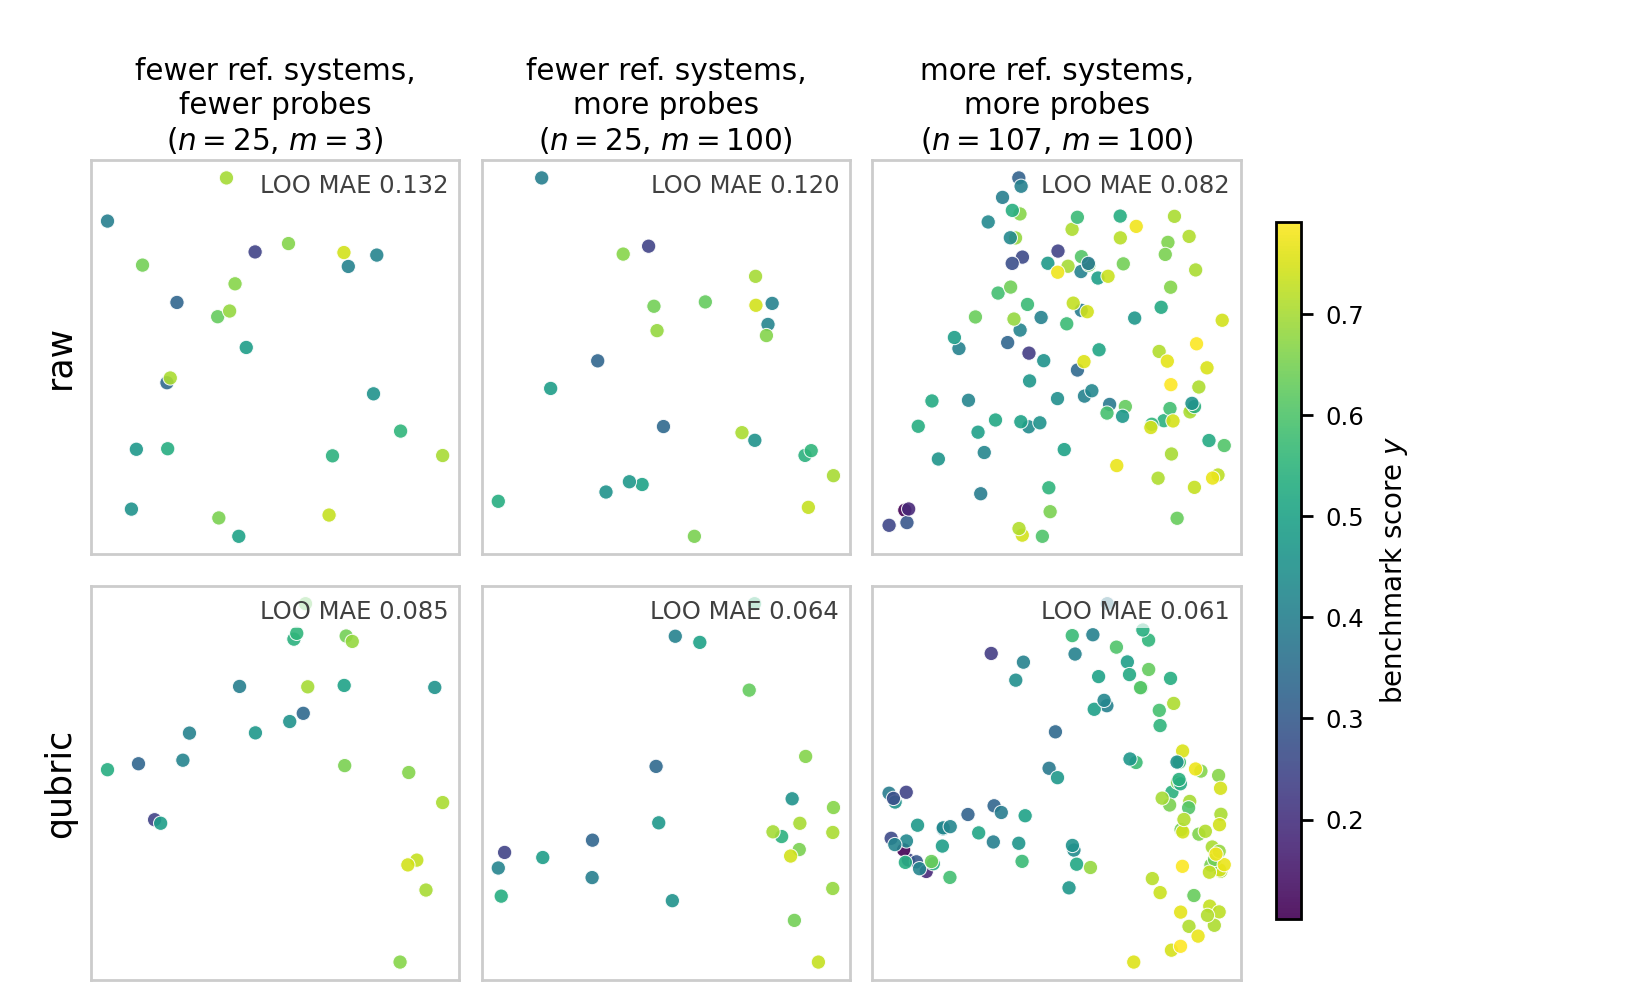
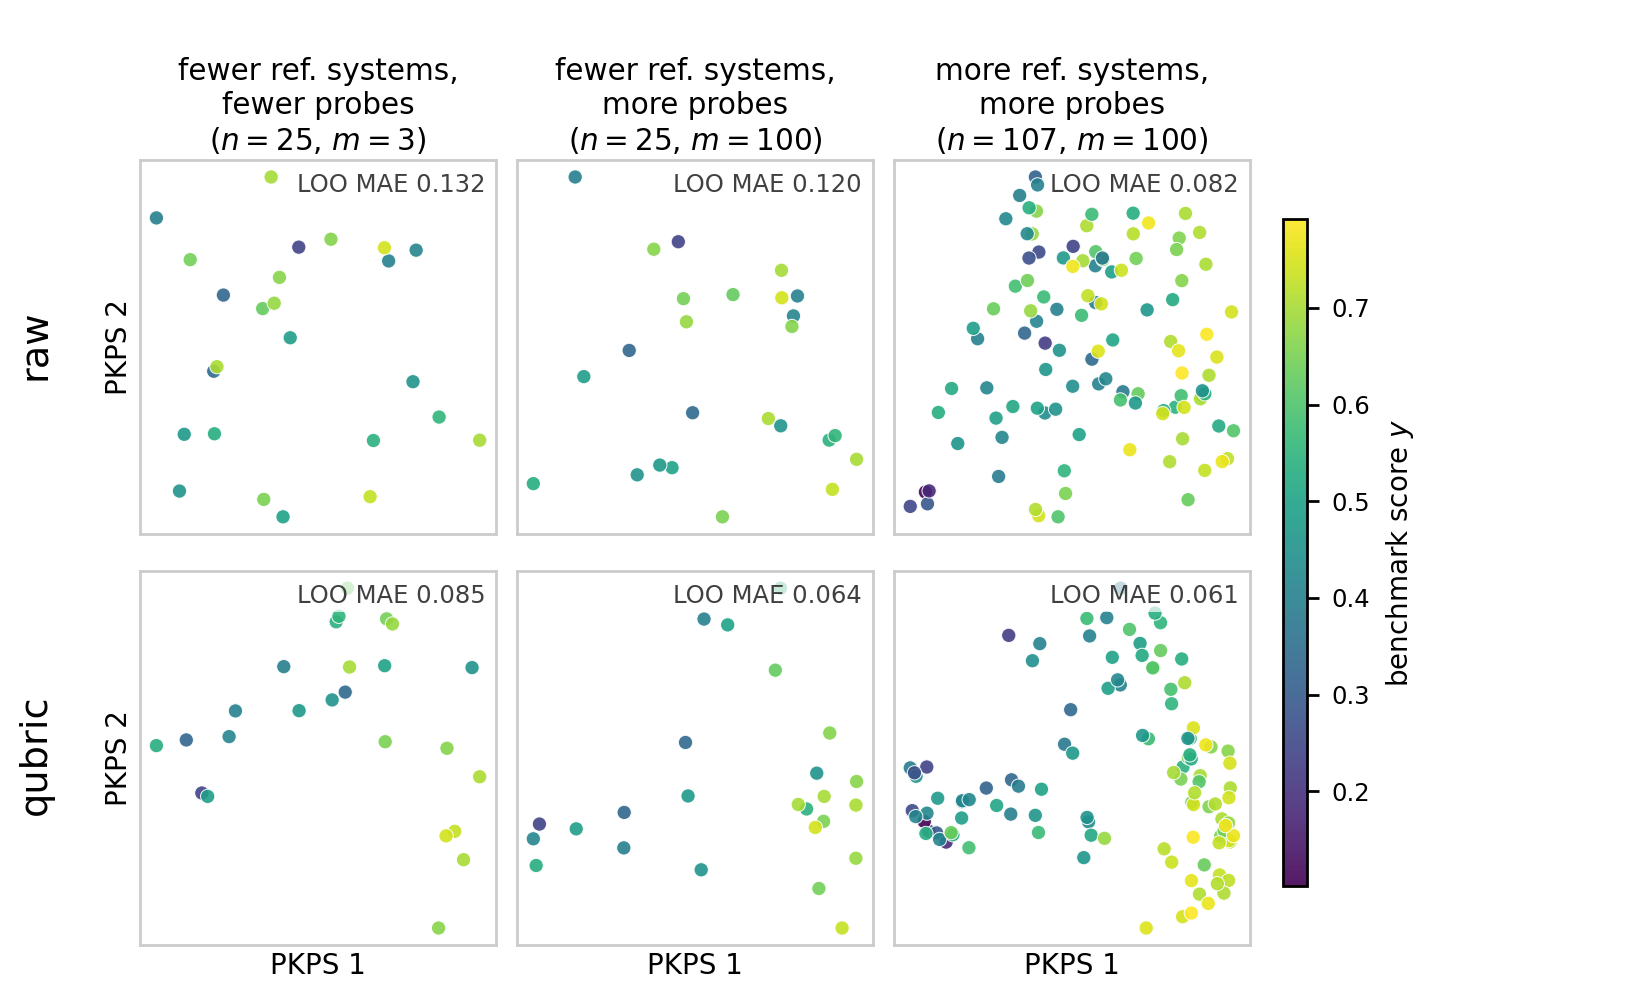
fig2: PKPS 1 / PKPS 2 axis labels; row names moved to margin
Claude-Session: https://claude.ai/code/session_01RGusFFXzoPTkSKgzzDLjNv

diff --git a/scripts/fig2_nm.py b/scripts/fig2_nm.py
@@ -88,8 +88,8 @@ def main():
     import matplotlib.pyplot as plt
 
     fig, axes = plt.subplots(2, 3, figsize=(6.6, 4.0))
-    fig.subplots_adjust(left=.055, right=.90, top=.84, bottom=.02,
-                        wspace=.06, hspace=.08)
+    fig.subplots_adjust(left=.085, right=.90, top=.84, bottom=.055,
+                        wspace=.06, hspace=.10)
     # row references: qubric's full configuration anchors the figure; the
     # raw row's reference is rotated onto it so the rows are comparable
     ref_qub = cmds2(pkps_D(qub, np.arange(M), np.arange(Q)))
@@ -118,7 +118,12 @@ def main():
             ax.set_yticks([])
             for sp in ax.spines.values():
                 sp.set_color('.8')
-        axes[r, 0].set_ylabel(rname, fontsize=10)
+            if r == 1:
+                ax.set_xlabel('PKPS 1', fontsize=8, labelpad=2)
+        axes[r, 0].set_ylabel('PKPS 2', fontsize=8, labelpad=2)
+    for r, rname in enumerate(('raw', 'qubric')):
+        fig.text(.022, .655 - .41 * r, rname, rotation=90, fontsize=11,
+                 va='center', ha='center')
     cb = fig.colorbar(sc, ax=axes, shrink=.85, pad=.025, aspect=28)
     cb.set_label('benchmark score $y$', fontsize=8)
     cb.ax.tick_params(labelsize=7)
